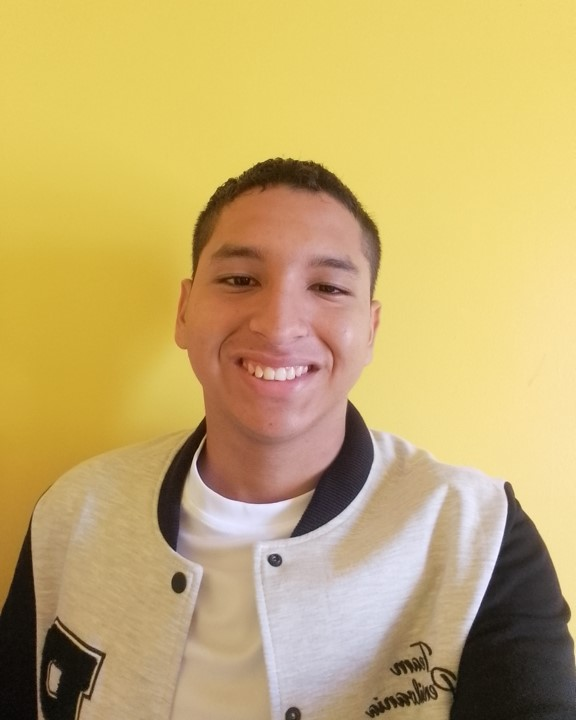
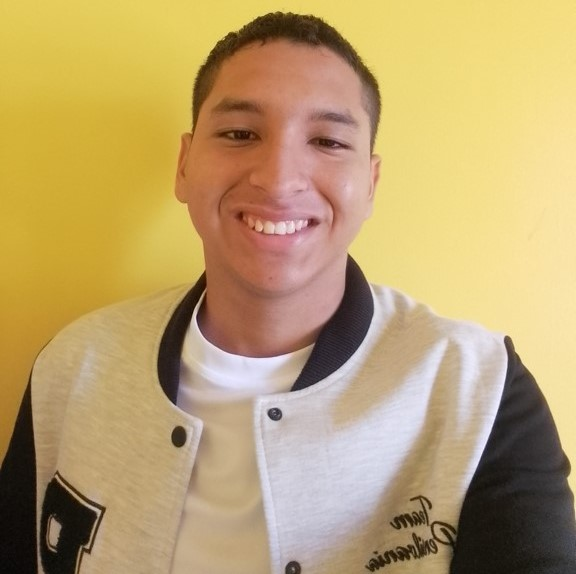
Nosotros

diff --git a/src/app/tab2/tab2.page.scss b/src/app/tab2/tab2.page.scss
@@ -1,69 +1,79 @@
 ion-content {
-    --background: #F8F9FA;
-    color: #343A40;
-  }
+  --background: #F8F9FA;
+  color: #343A40;
+}
   
-  ion-card {
-    background: #FFFFFF; /* Fondo naranja */
-    color: #343A40; /* Texto blanco */
-    border-radius: 10px;
-    box-shadow: 0 2px 4px rgba(0, 0, 0, 0.1); /* Sombra más ligera */
-    transition: transform 0.3s, box-shadow 0.3s;
-    margin-bottom: 20px; /* Más espacio entre tarjetas */
+ion-card {
+  background: #FFFFFF; /* Fondo naranja */
+  color: #343A40; /* Texto blanco */
+  border-radius: 10px;
+  box-shadow: 0 2px 4px rgba(0, 0, 0, 0.1); /* Sombra más ligera */
+  transition: transform 0.3s, box-shadow 0.3s;
+  margin-bottom: 20px; /* Más espacio entre tarjetas */
 
-    &:hover {
-      transform: scale(1.05);
-      box-shadow: 0 6px 12px rgba(0, 0, 0, 0.3);
-    }
+  &:hover {
+    transform: scale(1.05);
+    box-shadow: 0 6px 12px rgba(0, 0, 0, 0.3);
   }
-  
-  ion-card-title, ion-card-subtitle {
-    color: #343A40; /* Títulos más oscuros */
-    font-weight: bold;
+
+  img {
+    display: block;
+    max-width: 100%; /* Mantiene el ancho dentro de los límites del contenedor */
+    max-height: 300px; /* Limita la altura máxima */
+    margin: 10px auto; /* Centra la imagen horizontalmente */
+    object-fit: contain; /* Ajusta el contenido sin recortarlo */
+    border-radius: 10px; /* Bordes redondeados */
+    box-shadow: 0 4px 8px rgba(0, 0, 0, 0.2); /* Sombra para darle profundidad */
   }
+}
   
-  ion-grid {
-    ion-row {
-      ion-col {
-        display: flex;
-        flex-direction: column;
-        align-items: center;
-        justify-content: center;
-        text-align: center;
-        margin-top: 10px;
-  
-        img {
-          margin-bottom: 8px;
-          border-radius: 50%;
-          width: 90px;
-          height: 90px;
-          border: 2px solid #00A550; /* Borde verde */
-          transition: transform 0.3s, box-shadow 0.3s;
-  
-          &:hover {
-            transform: scale(1.1);
-            box-shadow: 0 4px 8px rgba(0, 0, 0, 0.2);
-          }
+ion-card-title, ion-card-subtitle {
+  color: #343A40; /* Títulos más oscuros */
+  font-weight: bold;
+}
+
+ion-grid {
+  ion-row {
+    ion-col {
+      display: flex;
+      flex-direction: column;
+      align-items: center;
+      justify-content: center;
+      text-align: center;
+      margin-top: 10px;
+
+      img {
+        margin-bottom: 8px;
+        border-radius: 50%;
+        width: 90px;
+        height: 90px;
+        border: 2px solid #00A550; /* Borde verde */
+        transition: transform 0.3s, box-shadow 0.3s;
+
+        &:hover {
+          transform: scale(1.1);
+          box-shadow: 0 4px 8px rgba(0, 0, 0, 0.2);
         }
-  
-        p {
-          margin: 0;
-          color: #343A40; /* Texto negro */
-          font-weight: normal;
-          font-size: 14px;
-        }
+      }
+
+      p {
+        margin: 0;
+        color: #343A40; /* Texto negro */
+        font-weight: normal;
+        font-size: 14px;
       }
     }
   }
-  
-  ion-toolbar {
-    --background: #00A550; /* Barra de navegación verde */
-    color: #FFFFFF; /* Texto blanco */
-  }
-  
-  ion-title {
-    text-shadow: 1px 1px 2px rgba(0, 0, 0, 0.5);
-  }
+}
+
+ion-toolbar {
+  --background: #00A550; /* Barra de navegación verde */
+  color: #FFFFFF; /* Texto blanco */
+}
+
+ion-title {
+  text-shadow: 1px 1px 2px rgba(0, 0, 0, 0.5);
+}
   
 ion-card-header {
     text-align: center;

diff --git a/src/app/tab2/tab2.page.ts b/src/app/tab2/tab2.page.ts
@@ -36,7 +36,7 @@ export class Tab2Page {
 
   creadores = [
     { imagen: 'assets/jaren.jpg', nombre: 'Jaren Pazmiño' },
-    { imagen: 'assets/jaren.jpg', nombre: 'Ariel Vargas' },
+    { imagen: 'assets/ariel.jpg', nombre: 'Ariel Vargas' },
     { imagen: 'assets/jaren.jpg', nombre: 'Brian Mite' },
   ];
 
